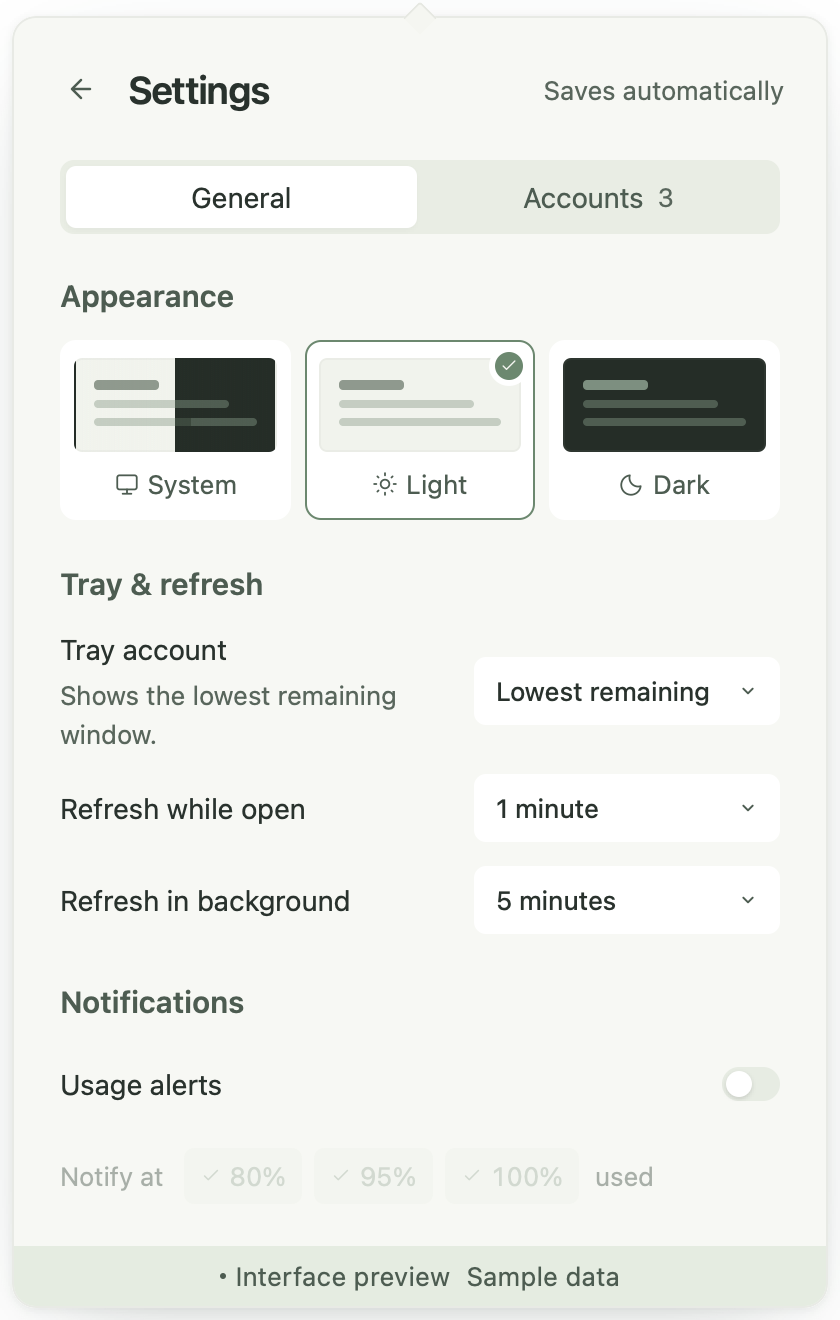
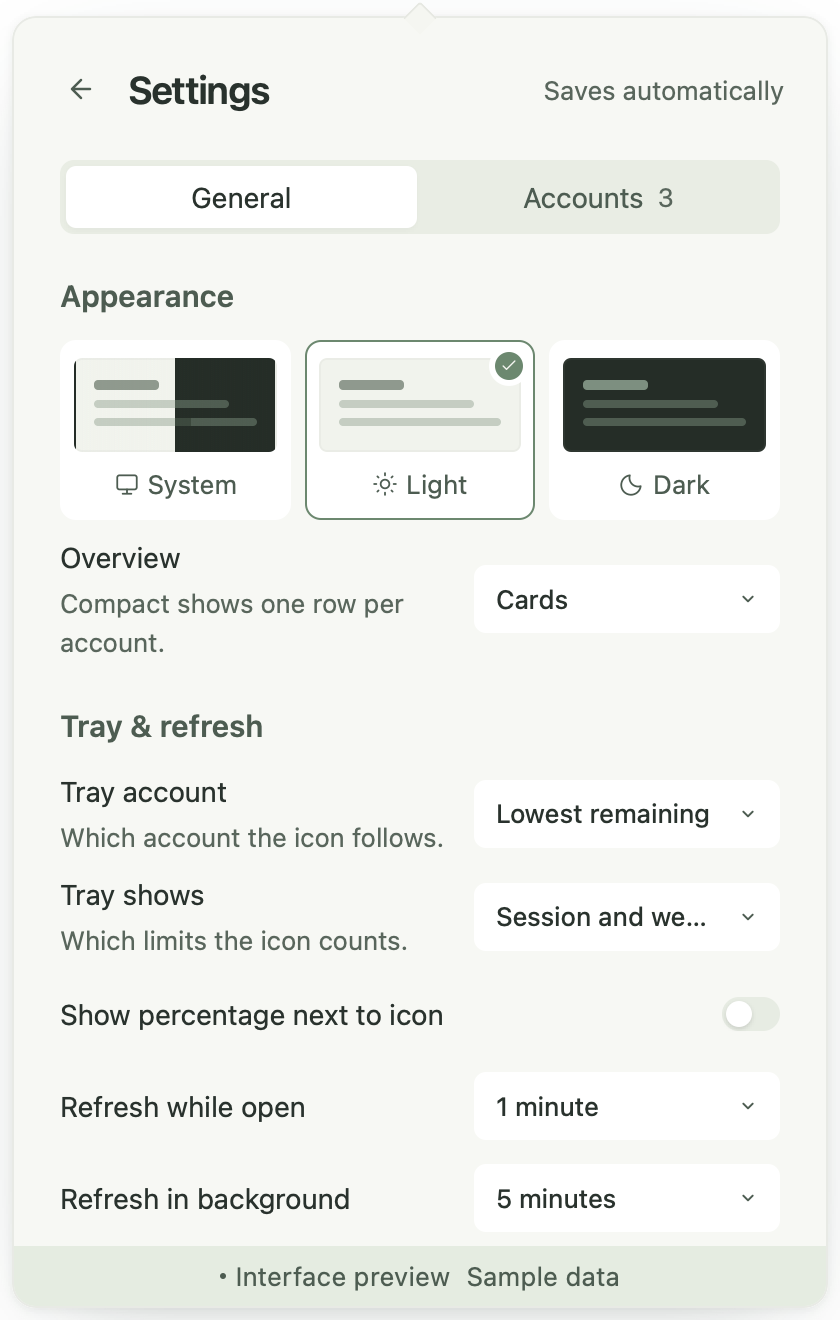
Refresh public screenshots for v0.5.0

diff --git a/docs/screenshots.md b/docs/screenshots.md
@@ -2,20 +2,18 @@
 
 Public images use explicit sample accounts. Capture from `?demo=1`; never publish a live account, email, configuration path, or credential.
 
-## v0.3.0 captures
+## v0.5.0 captures
 
 Use WebKit at 420×660 CSS pixels and 2× scale. Preserve the sample-data label. Visually inspect each image before linking it in the README or release notes.
 
 | Image | State |
 | --- | --- |
-| `docs/images/settings-menu-light.png` | Captured and inspected: light settings with the account menu open and its selected option visible. |
-| `docs/images/settings-menu-dark.png` | Captured and inspected: the same menu in dark mode. |
-| `docs/images/settings-light.png` | Larger text and clearer contrast, with notifications off. |
-| `docs/images/overview-dark.png`, `overview-light.png` | Larger quota values and reset times, with sample accounts. |
-| `docs/images/history-dark.png`, `history-light.png` | Sample history with a new period, a recording gap, and keyboard-inspectable readings. |
+| `docs/images/overview-light.png`, `overview-dark.png` | `?demo=1` cards: Personal with session and weekly reset times, pace lines, and Fable, Opus, and Sonnet chips. |
+| `docs/images/compact-light.png`, `compact-dark.png` | `?demo=1&state=compact&layout=compact`: five accounts in one row each, including last-known and signed-out rows. |
+| `docs/images/history-light.png`, `history-dark.png` | History open on Personal, Session tab, scrolled so the panel starts at the top of the list: a new period, a recording gap, and the legend. |
+| `docs/images/settings-light.png` | Top of Settings, General tab: theme, Overview, Tray account, Tray shows, Show percentage, and refresh intervals. Notifications and updates are below the fold and not shown. |
+| `docs/images/settings-menu-light.png`, `settings-menu-dark.png` | Settings with the Tray account menu open and its selected option visible. |
 
-All seven PNGs are 840×1320 pixels and retain the sample-data label. v0.2.2 screenshots remain available at its Git tag.
-
-The same overview, settings, account list, and open menus were also inspected at 1× scale (420×660 pixels) for external-monitor readability.
+All nine PNGs are 840×1320 pixels and retain the sample-data label. `site/overview-light.png` and `site/overview-dark.png` are copies of the overview images; `site/og.png` embeds `overview-light.png`. Earlier screenshots remain available at their release tags.
 
 Caption browser captures as browser previews with sample data. Native screenshots need their own platform label. Release image URLs should use the release tag, not `main`.

diff --git a/README.md b/README.md
@@ -13,6 +13,7 @@ See remaining quota and reset times across multiple accounts, right from your me
 <p>
   <img src="docs/images/overview-dark.png" alt="Margin dark browser preview showing sample Claude and Codex accounts" width="300" />
   <img src="docs/images/overview-light.png" alt="Margin light browser preview showing sample Claude and Codex accounts" width="300" />
+  <img src="docs/images/compact-light.png" alt="Margin light compact overview preview with one row per sample account" width="300" />
 </p>
 
 Browser previews with sample accounts. [Settings preview](docs/images/settings-light.png).
